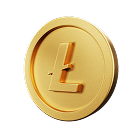
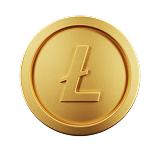
crypto coins pics set

diff --git a/style.css b/style.css
@@ -160,10 +160,32 @@ body {
 
 
 /* Trade Section */
-.etherium {
+.etherium_1 {
     position: absolute;
     bottom: -210px;
-    left: 4.5%;
+    left: 47px;
+}
+
+.bitcoin_1 {
+    position: absolute;
+    bottom: 10px;
+    left: 13%;
+    bottom: 350px;
+    transform: translateY(-50%);
+}
+
+.litecoin_1 {
+    position: absolute;
+    bottom: 10px;
+    right: 11%;
+    top: 50%;
+    transform: translateY(-50%);
+}
+
+.monero_1 {
+    position: absolute;
+    right: 11%;
+    top: 100%;
 }
 
 .trade-sec {
@@ -281,7 +303,7 @@ body {
 
 .cryptos>h1 {
     margin: 0;
-    padding-top: 80px;
+    padding-top: 100px;
     color: #FFFFFF;
     text-align: center;
     font-size: 64px;
@@ -360,13 +382,37 @@ body {
 }
 
 /* Attractive Features */
+.etherium_2 {
+    position: absolute;
+    bottom: -1190px;
+    right: 4.5%;
+}
+
+.monero_2 {
+    position: absolute;
+    bottom: -1250px;
+    left: 7%;
+}
+
+.litecoin_2 {
+    position: absolute;
+    bottom: -2230px;
+    left: 7%;
+}
+
+.bitcoin_2 {
+    position: absolute;
+    bottom: -2320px;
+    right: 7%;
+}
+
 .features {
     background: #160E33;
 }
 
 .features>h1 {
     margin: 0;
-    padding-top: 90px;
+    padding-top: 170px;
     color: #FFFFFF;
     text-align: center;
     font-size: 64px;
@@ -457,10 +503,35 @@ body {
 
 
 /* Portfolio */
+.monero_3 {
+    position: absolute;
+    bottom: -3770px;
+    left: 6%;
+}
+
+.bitcoin_3 {
+    position: absolute;
+    bottom: -4595px;
+    left: 5%;
+}
+
+.etherium_3 {
+    position: absolute;
+    bottom: -4595px;
+    right: 2%;
+}
+
+.monero_4 {
+    position: absolute;
+    bottom: -5310px;
+    right: 10%;
+}
+
 .portfolio-card {
     width: 350px;
     height: 450px;
-    border-radius: 16px;
+    border-radius: 12px;
+    border: 2px solid var(--Red, #EF443B);
     display: flex;
     flex-direction: column;
     justify-content: center;
@@ -503,7 +574,7 @@ body {
 .university {
     background: #160E33;
     width: 100%;
-    height: 800px;
+    height: 880px;
 }
 
 .university>h1 {
@@ -511,7 +582,7 @@ body {
     text-align: center;
     font-size: 64px;
     font-weight: 700;
-    padding-top: 70px;
+    padding-top: 150px;
     margin: 0;
 }
 

diff --git a/index.html b/index.html
@@ -82,8 +82,17 @@
     </div>
 
     <!-- Trade Section -->
-    <div class="etherium">
-        <img src="./assets/Etherium-2.png" alt="">
+    <div class="etherium_1">
+        <img src="./assets/Etherium-1.png" alt="">
+    </div>
+    <div class="bitcoin_1">
+        <img src="./assets/Bitcoin-1.png" alt="">
+    </div>
+    <div class="litecoin_1">
+        <img src="./assets/LiteCoin-1.png" alt="">
+    </div>
+    <div class="monero_1">
+        <img src="./assets/Monero-1.png" alt="">
     </div>
     <div class="trade-sec">
         <h1>
@@ -155,6 +164,18 @@
     </div>
 
     <!-- Attractive Features -->
+    <div class="etherium_2">
+        <img src="./assets/Etherium-1.png" alt="">
+    </div>
+    <div class="monero_2">
+        <img src="./assets/Monero-1.png" alt="">
+    </div>
+    <div class="litecoin_2">
+        <img src="./assets/LiteCoin-2.png" alt="">
+    </div>
+    <div class="bitcoin_2">
+        <img src="./assets/Bitcoin-1.png" alt="">
+    </div>
     <div class="features">
         <h1>Attractive Features</h1>
         <p>Windaful makes playing the UK's best raffles easy and fun.</p>
@@ -218,6 +239,18 @@
     </div>
 
     <!-- Portfolio -->
+    <div class="monero_3">
+        <img src="./assets/Monero-1.png" alt="">
+    </div>
+    <div class="bitcoin_3">
+        <img src="./assets/Bitcoin-1.png" alt="">
+    </div>
+    <div class="etherium_3">
+        <img src="./assets/Etherium-1.png" alt="">
+    </div>
+    <div class="monero_4">
+        <img src="./assets/Monero-1.png" alt="">
+    </div>
     <div class="cryptos">
         <h1>30 Million Users Worldwide</h1>
         <p>Tincidunt id nibh orci nibh justo. Purus et turpis nulla elementum, sed vel.</p>
